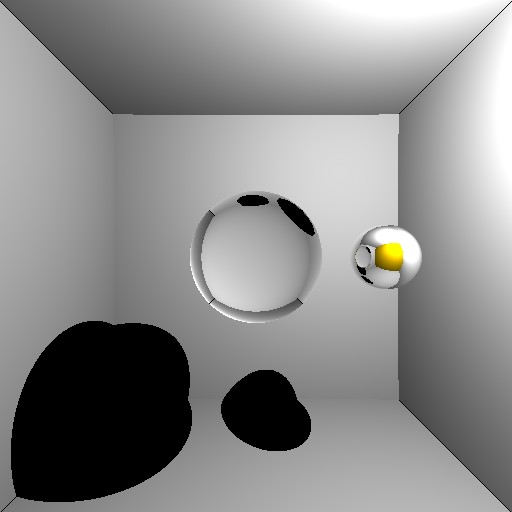
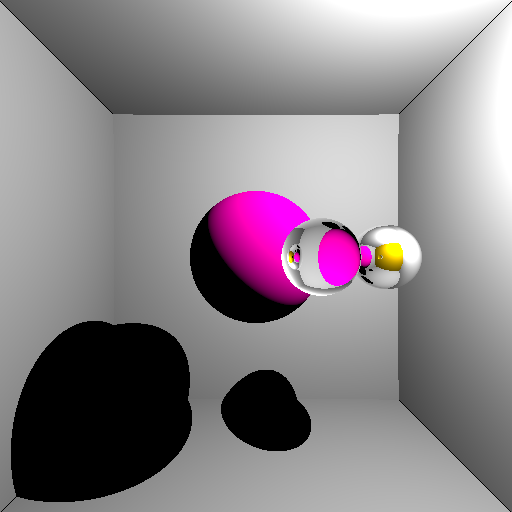
BE2 - Transparence

Changed region(s): [[0.375, 0.375, 0.75, 0.6562]]

diff --git a/main.cpp b/main.cpp
@@ -49,9 +49,9 @@ int main(int argc, char* argv[]) {
     std::thread threads[NB_THREAD_GRID * NB_THREAD_GRID];
 
     Environment E = Environment();
-    E.add_sphere(Sphere(Vector(0, 0, 0), 10, Sphere::TYPE_TRANSPARENT, 2.));
+    E.add_sphere(Sphere(Vector(0, 0, 0), 10, Vector(1, 0, 0.5)));
     E.add_sphere(Sphere(Vector(20, 0, 0), 5, Sphere::TYPE_REFLECTIVE));
-    // E.add_sphere(Sphere(Vector(0, 0, 20), 3, Sphere::TYPE_TRANSPARENT, 2.));
+    E.add_sphere(Sphere(Vector(5, 0, 20), 3, Sphere::TYPE_TRANSPARENT, 1.5));
 
     E.add_sphere(Sphere(Vector(-10050, 0, 0), 10000));
     E.add_sphere(Sphere(Vector(+10050, 0, 0), 10000));
